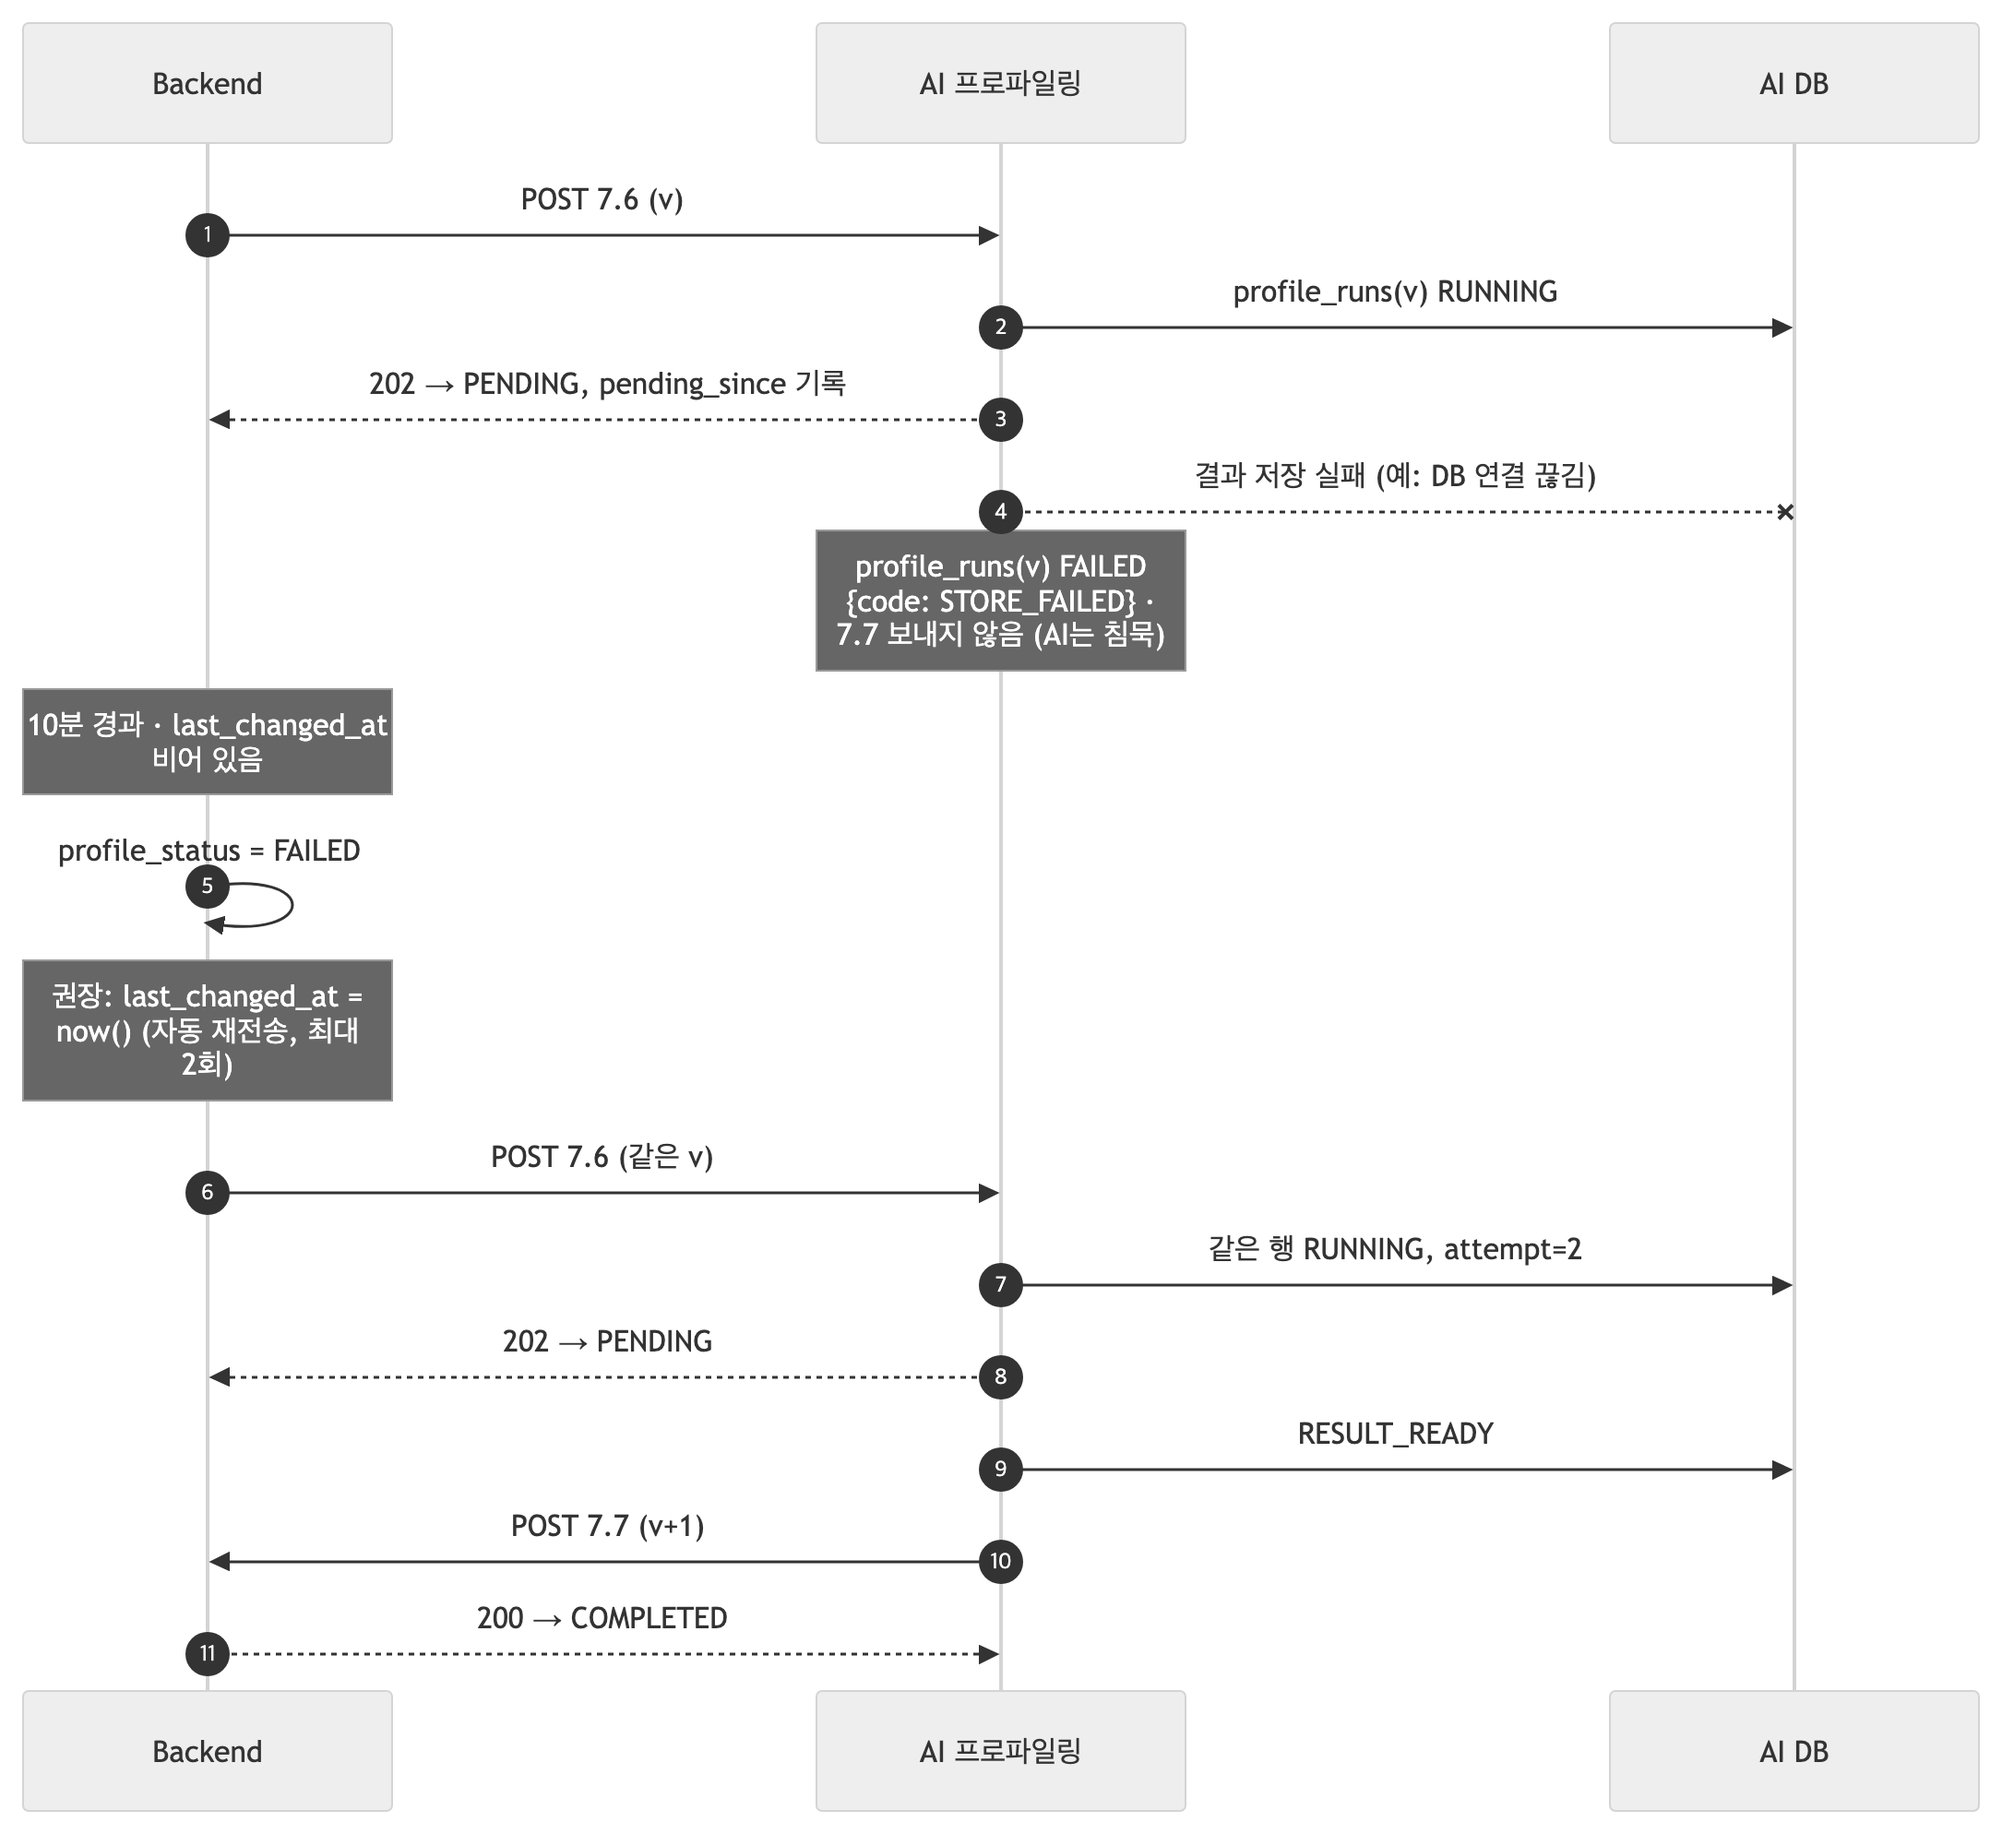
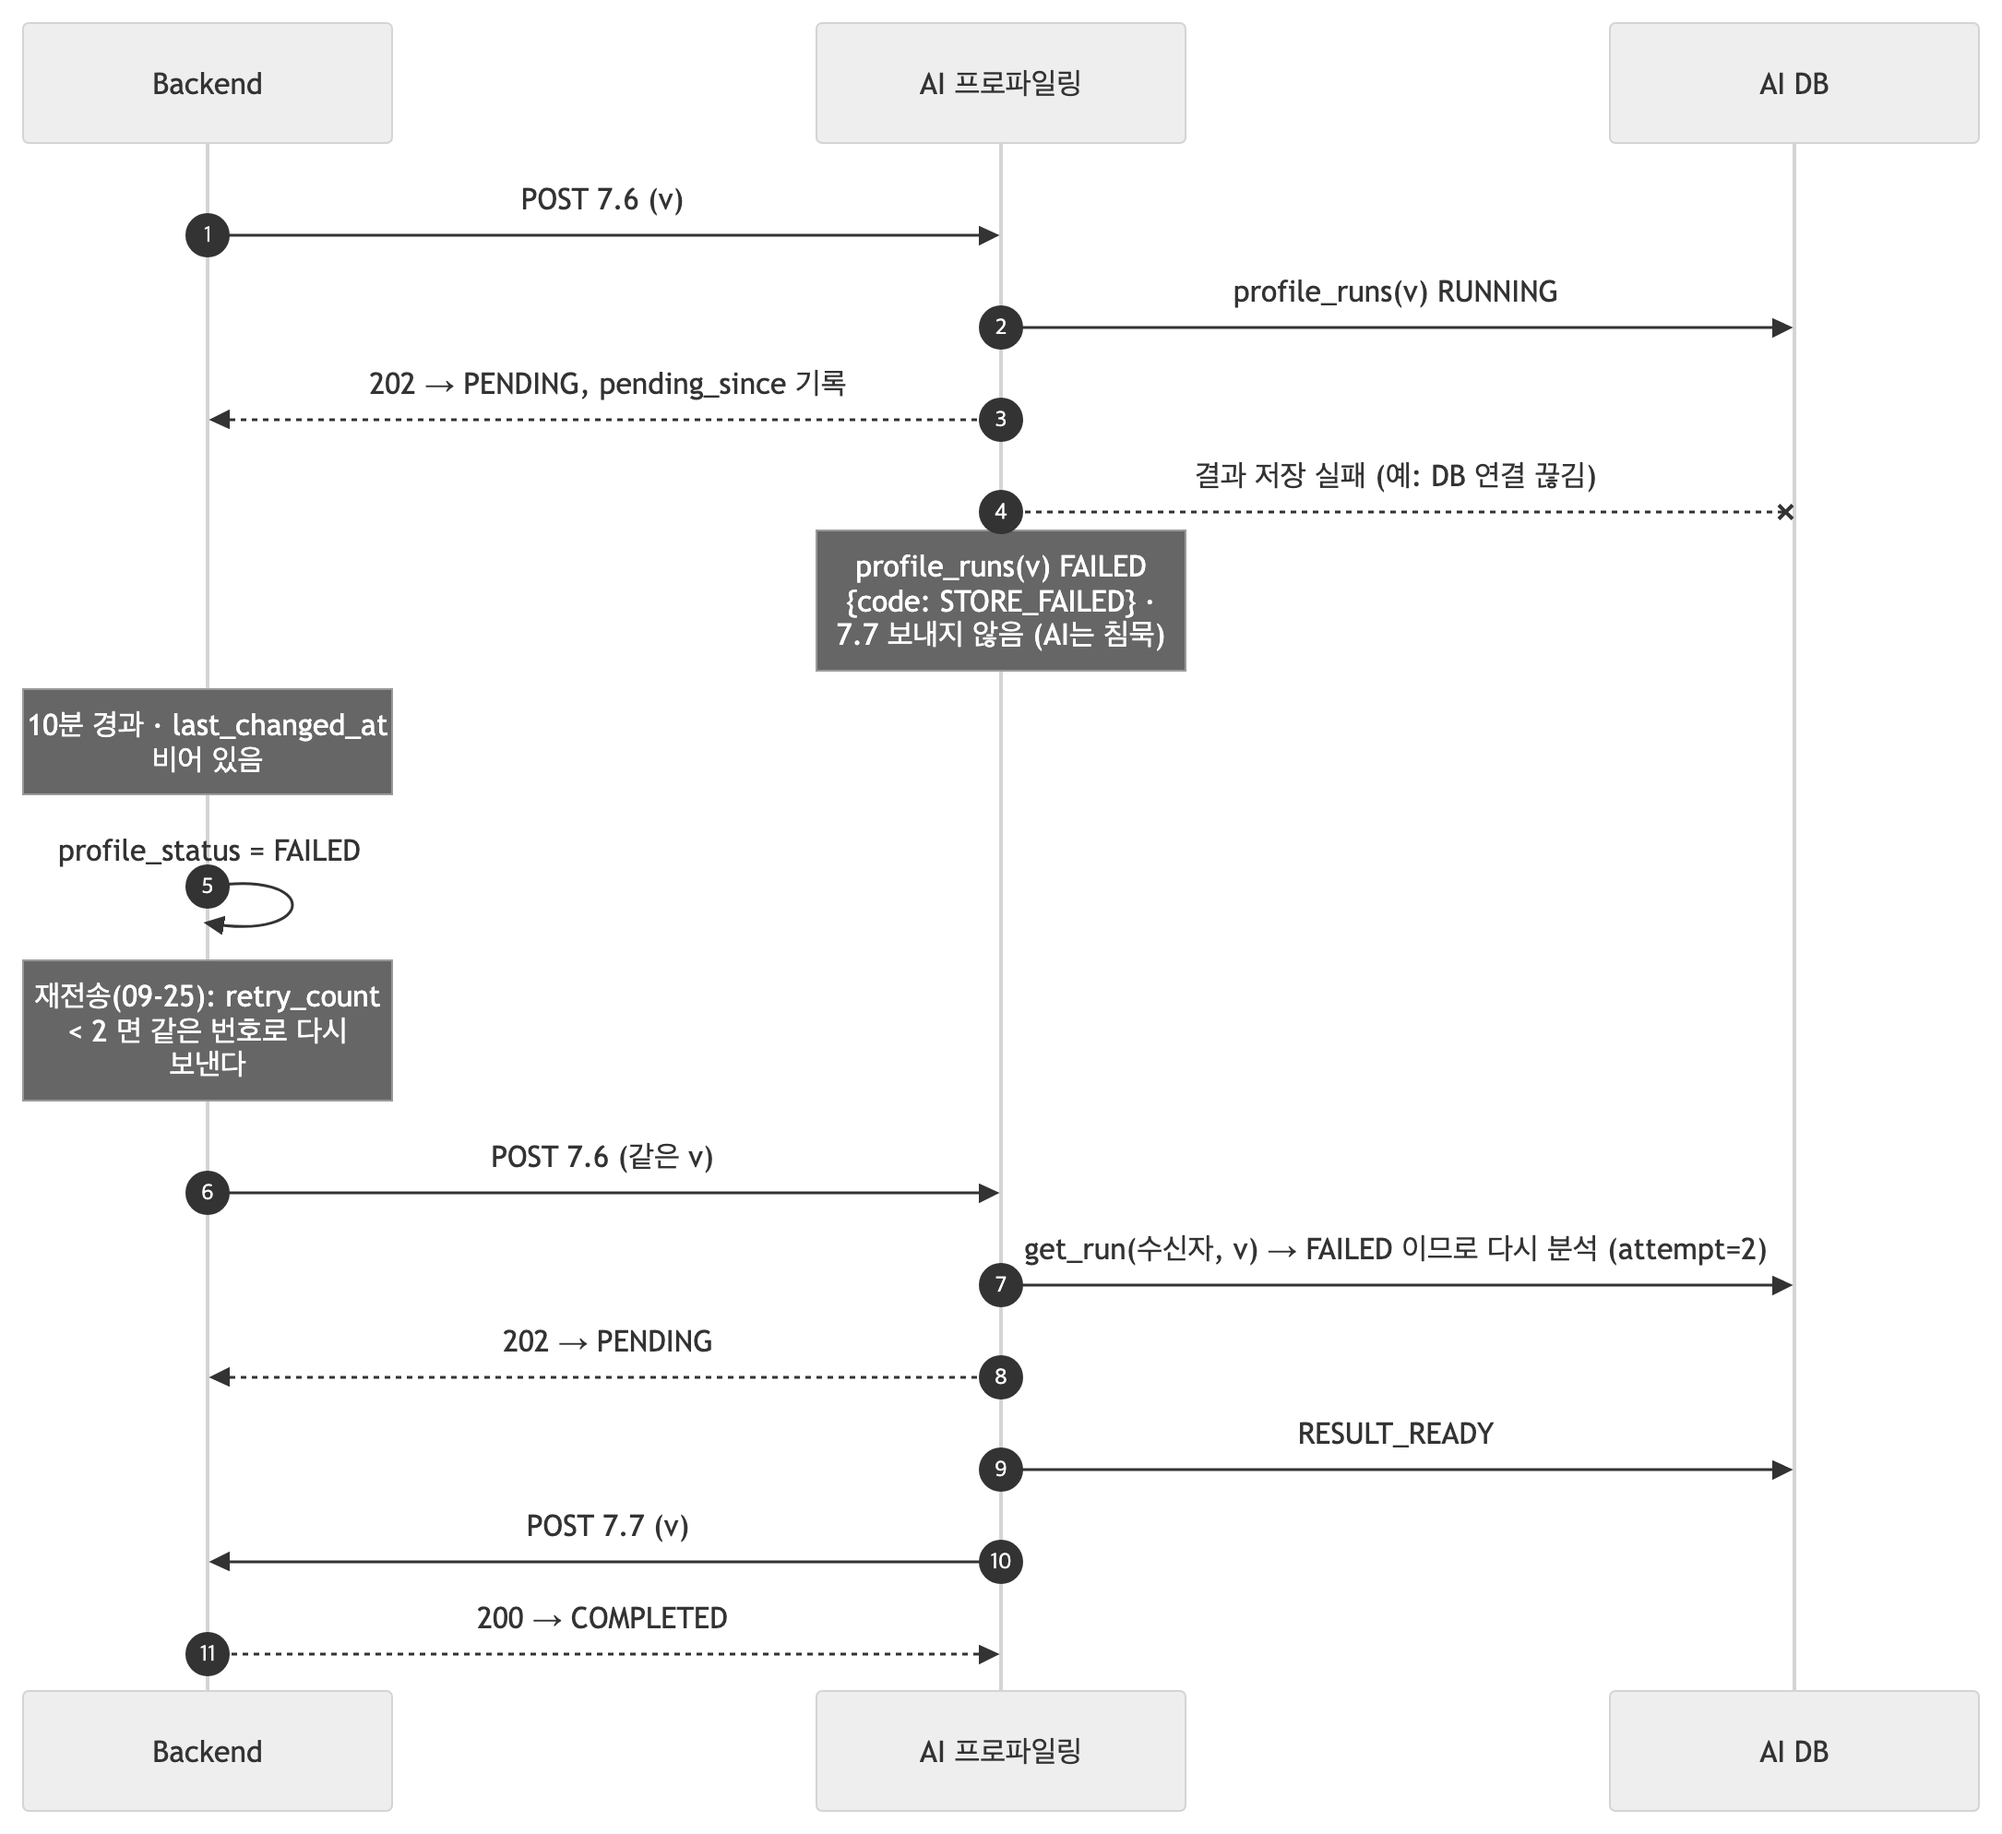
fix(docs): 앞 커밋의 치환이 04번 그림까지 바꾼 것 되돌림
"POST 7.7 (v) → (v+1)" 치환이 §4.2(503 재시도, 새 번호)뿐 아니라
§4.4(침묵 실패 뒤 재전송, 같은 번호)에도 걸려 그림의 뜻이 뒤집혔다.
04는 같은 번호로 재전송하는 그림이므로 7.7 도 같은 v 여야 한다.

되돌리면서 04 의 낡은 문구도 09-25 규칙으로 맞췄다.
  "권장: last_changed_at = now() (자동 재전송, 최대 2회)"
    → "재전송(09-25): retry_count < 2 면 같은 번호로 다시 보낸다"
  "같은 행 RUNNING, attempt=2"
    → "get_run(수신자, v) → FAILED 이므로 다시 분석 (attempt=2)"  (중복 판정 반영)

이제 v+1 은 §4.2 그림 두 줄에만 있다.

Changed region(s): [[0.5558, 0.6549, 0.8645, 0.6861], [0.0309, 0.5302, 0.1853, 0.5926], [0.247, 0.8109, 0.3396, 0.8421]]

diff --git a/profiling/docs/BE_연동_필드표_v1.md b/profiling/docs/BE_연동_필드표_v1.md
@@ -378,12 +378,12 @@ sequenceDiagram
   Note over AI: profile_runs(v) FAILED {code: STORE_FAILED} · 7.7 보내지 않음 (AI는 침묵)
   Note over BE: 10분 경과 · last_changed_at 비어 있음
   BE->>BE: profile_status = FAILED
-  Note over BE: 권장: last_changed_at = now() (자동 재전송, 최대 2회)
+  Note over BE: 재전송(09-25): retry_count < 2 면 같은 번호로 다시 보낸다
   BE->>AI: POST 7.6 (같은 v)
-  AI->>DB: 같은 행 RUNNING, attempt=2
+  AI->>DB: get_run(수신자, v) → FAILED 이므로 다시 분석 (attempt=2)
   AI-->>BE: 202 → PENDING
   AI->>DB: RESULT_READY
-  AI->>BE: POST 7.7 (v+1)
+  AI->>BE: POST 7.7 (v)
   BE-->>AI: 200 → COMPLETED
 ```
 
